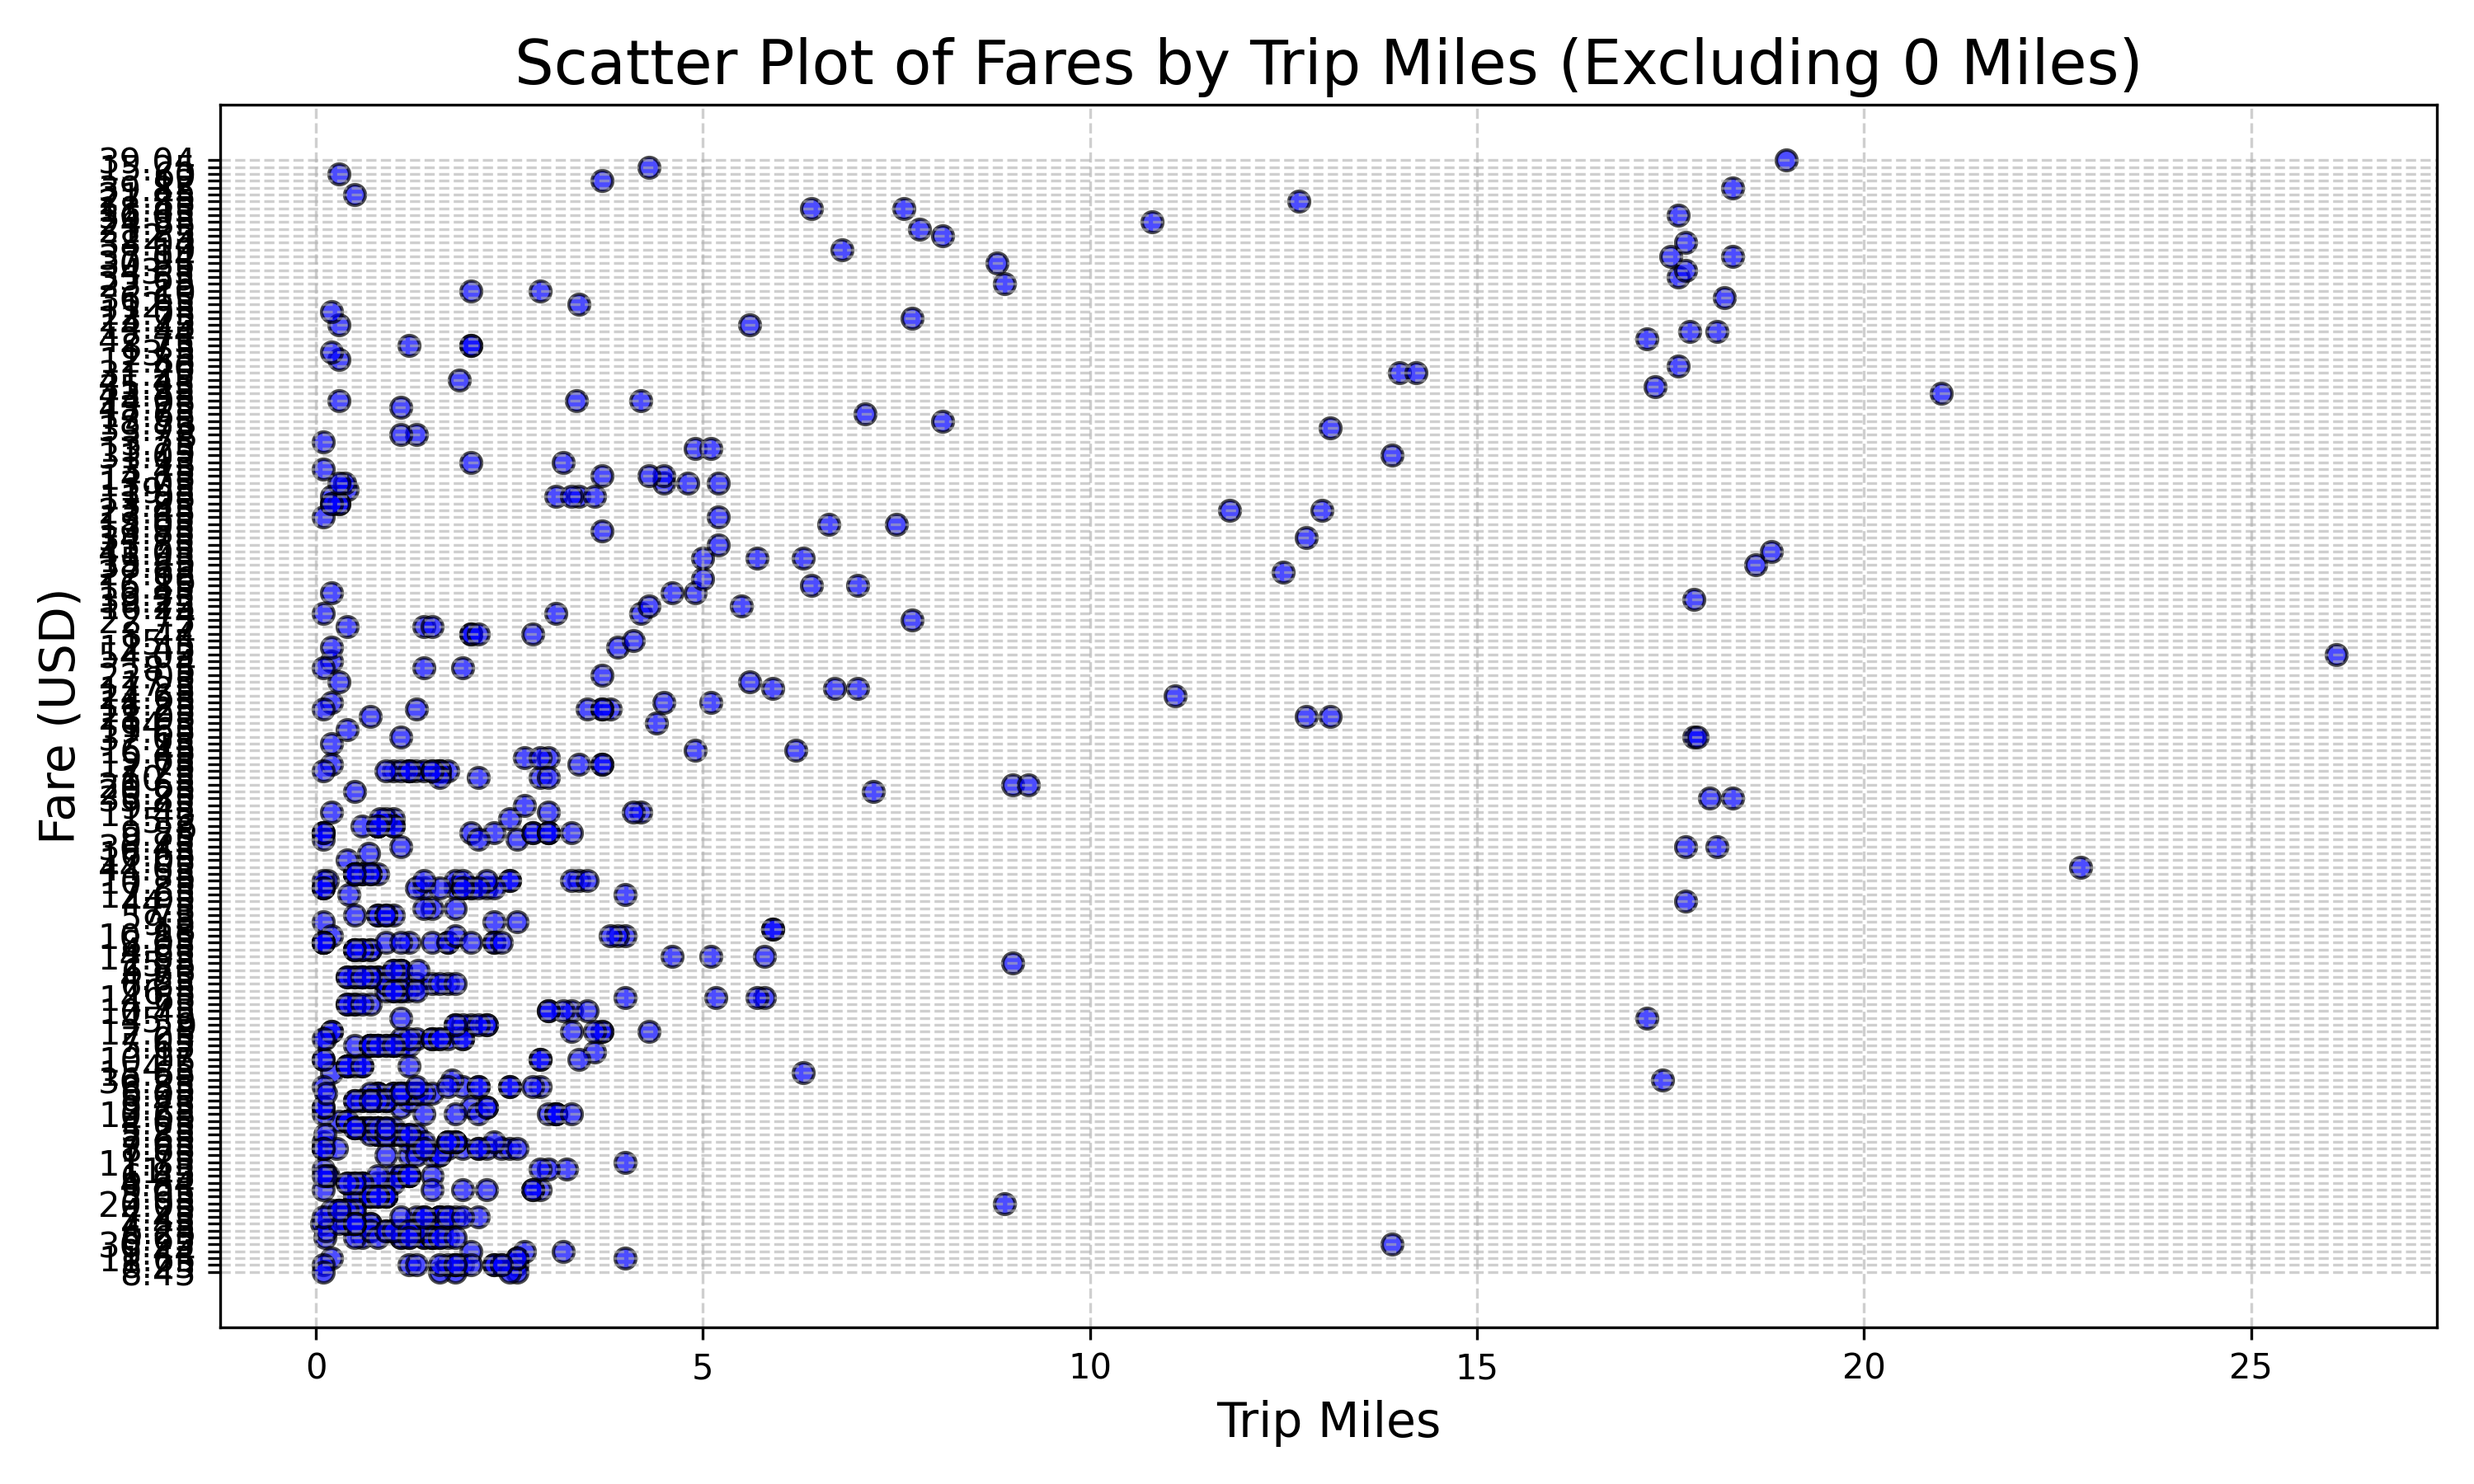
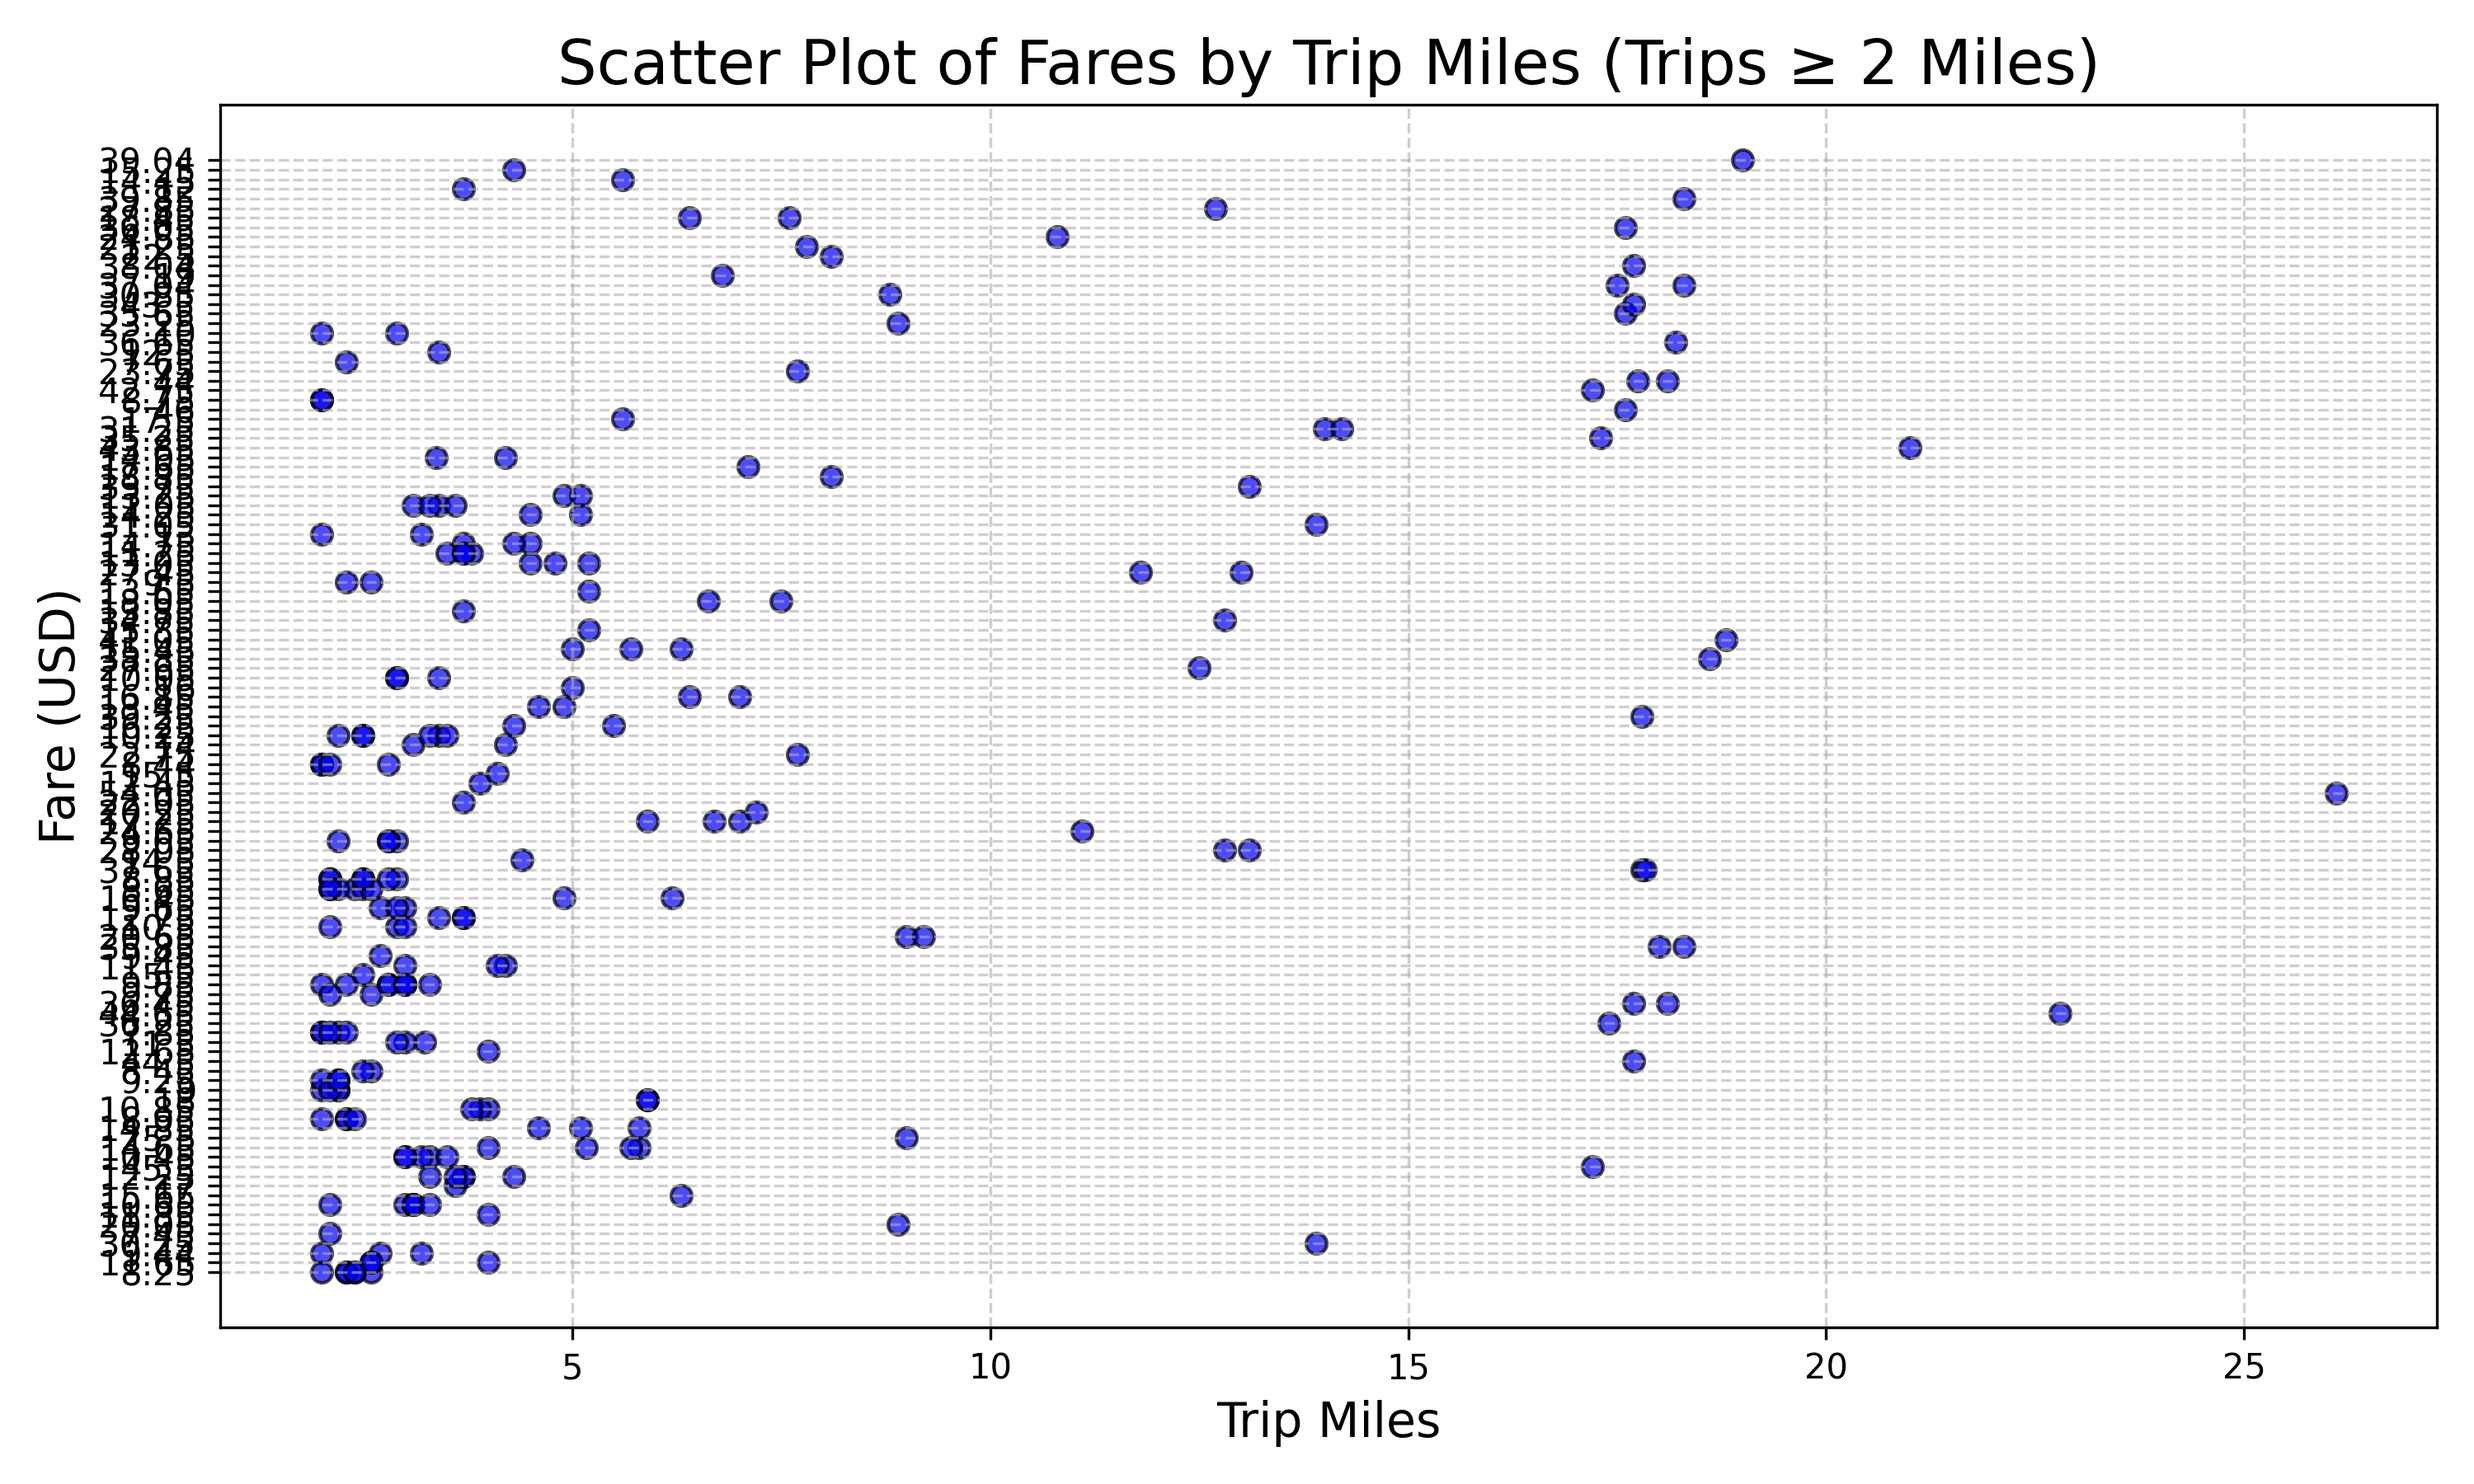
Commit

diff --git a/Lab 13.Visualization/Ex5c.py b/Lab 13.Visualization/Ex5c.py
@@ -2,6 +2,7 @@ import json
 import matplotlib.pyplot as plt
 import pandas as pd
 
+# Load JSON data
 file_path = '/Users/lanceabut/Downloads/Trips from area 8.json'
 try:
     with open(file_path, 'r') as file:
@@ -14,14 +15,13 @@ df = pd.DataFrame(data)
 
 # Make sure necessary columns exist and clean the data
 if 'fare' in df.columns and 'trip_miles' in df.columns:
-    # Convert 'trip_miles' column to numeric, forcing errors to NaN
+    # Convert trip_miles to numeric, forcing errors to NaN
     df['trip_miles'] = pd.to_numeric(df['trip_miles'], errors='coerce')
     
-    # Take out rows where 'trip_miles' is non-numeric values
-    df_cleaned = df.dropna(subset=['trip_miles'])
-    
-    # Filter out trips with 0 miles
-    df_cleaned = df_cleaned[df_cleaned['trip_miles'] > 0]
+    df_cleaned = df[['fare', 'trip_miles']].dropna()
+
+    # Filter out trips less than 2 miles
+    df_cleaned = df_cleaned[df_cleaned['trip_miles'] >= 2]  # Keep rows with trip_miles >= 2
 else:
     print("Error: The dataset is missing required columns 'fare' or 'trip_miles'.")
     exit()
@@ -31,11 +31,12 @@ plt.figure(figsize=(10, 6))
 plt.scatter(df_cleaned['trip_miles'], df_cleaned['fare'], alpha=0.7, color='blue', edgecolor='black')
 
 # Add labels and title
-plt.title("Scatter Plot of Fares by Trip Miles (Excluding 0 Miles)", fontsize=18)
+plt.title("Scatter Plot of Fares by Trip Miles (Trips ≥ 2 Miles)", fontsize=18)
 plt.xlabel("Trip Miles", fontsize=14)
 plt.ylabel("Fare (USD)", fontsize=14)
 plt.grid(True, linestyle='--', alpha=0.6)
 
+# Save the plot to a file
 output_file = 'FaresXmiles.png'
 plt.tight_layout()
 plt.savefig(output_file, dpi=300)  # Save with high resolution
